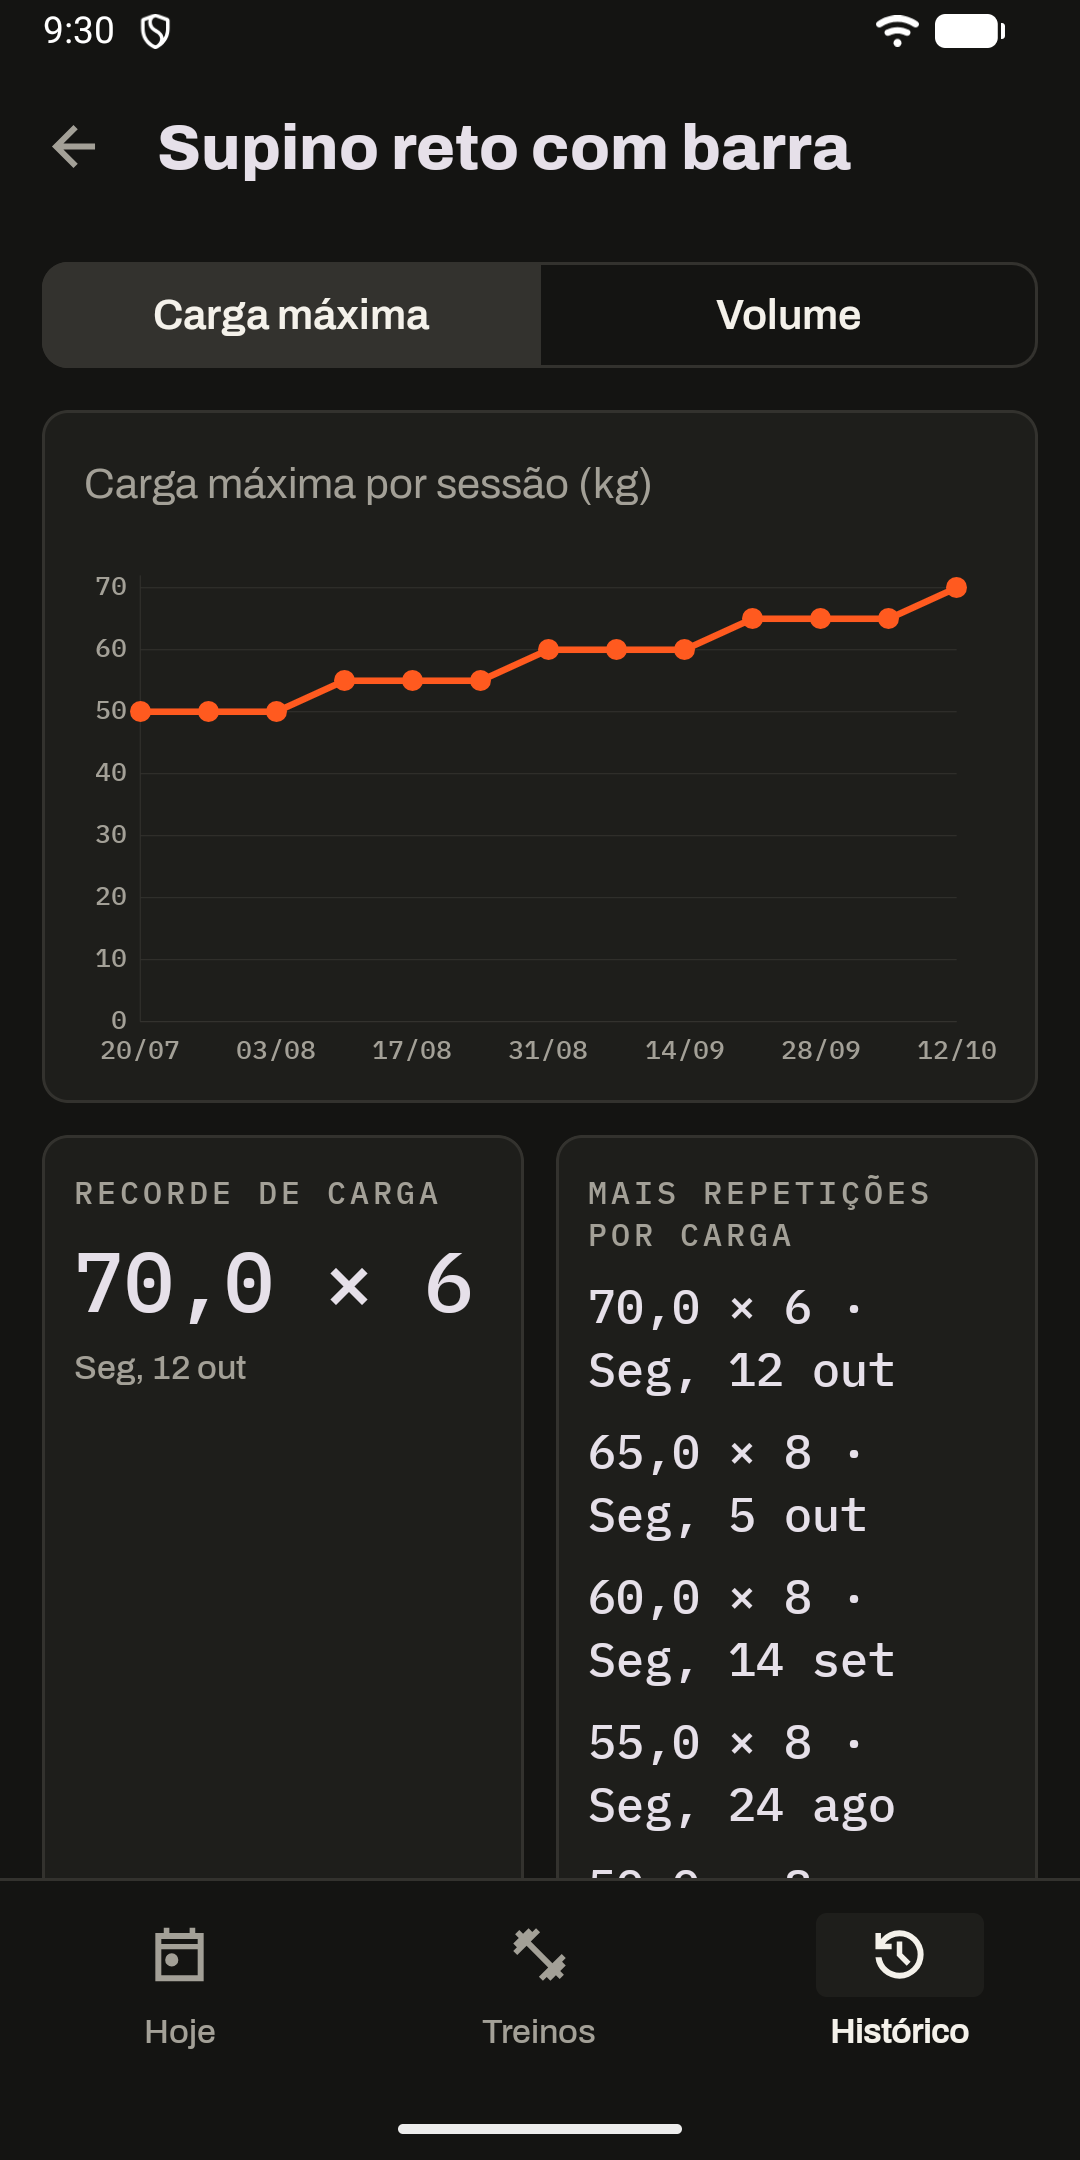
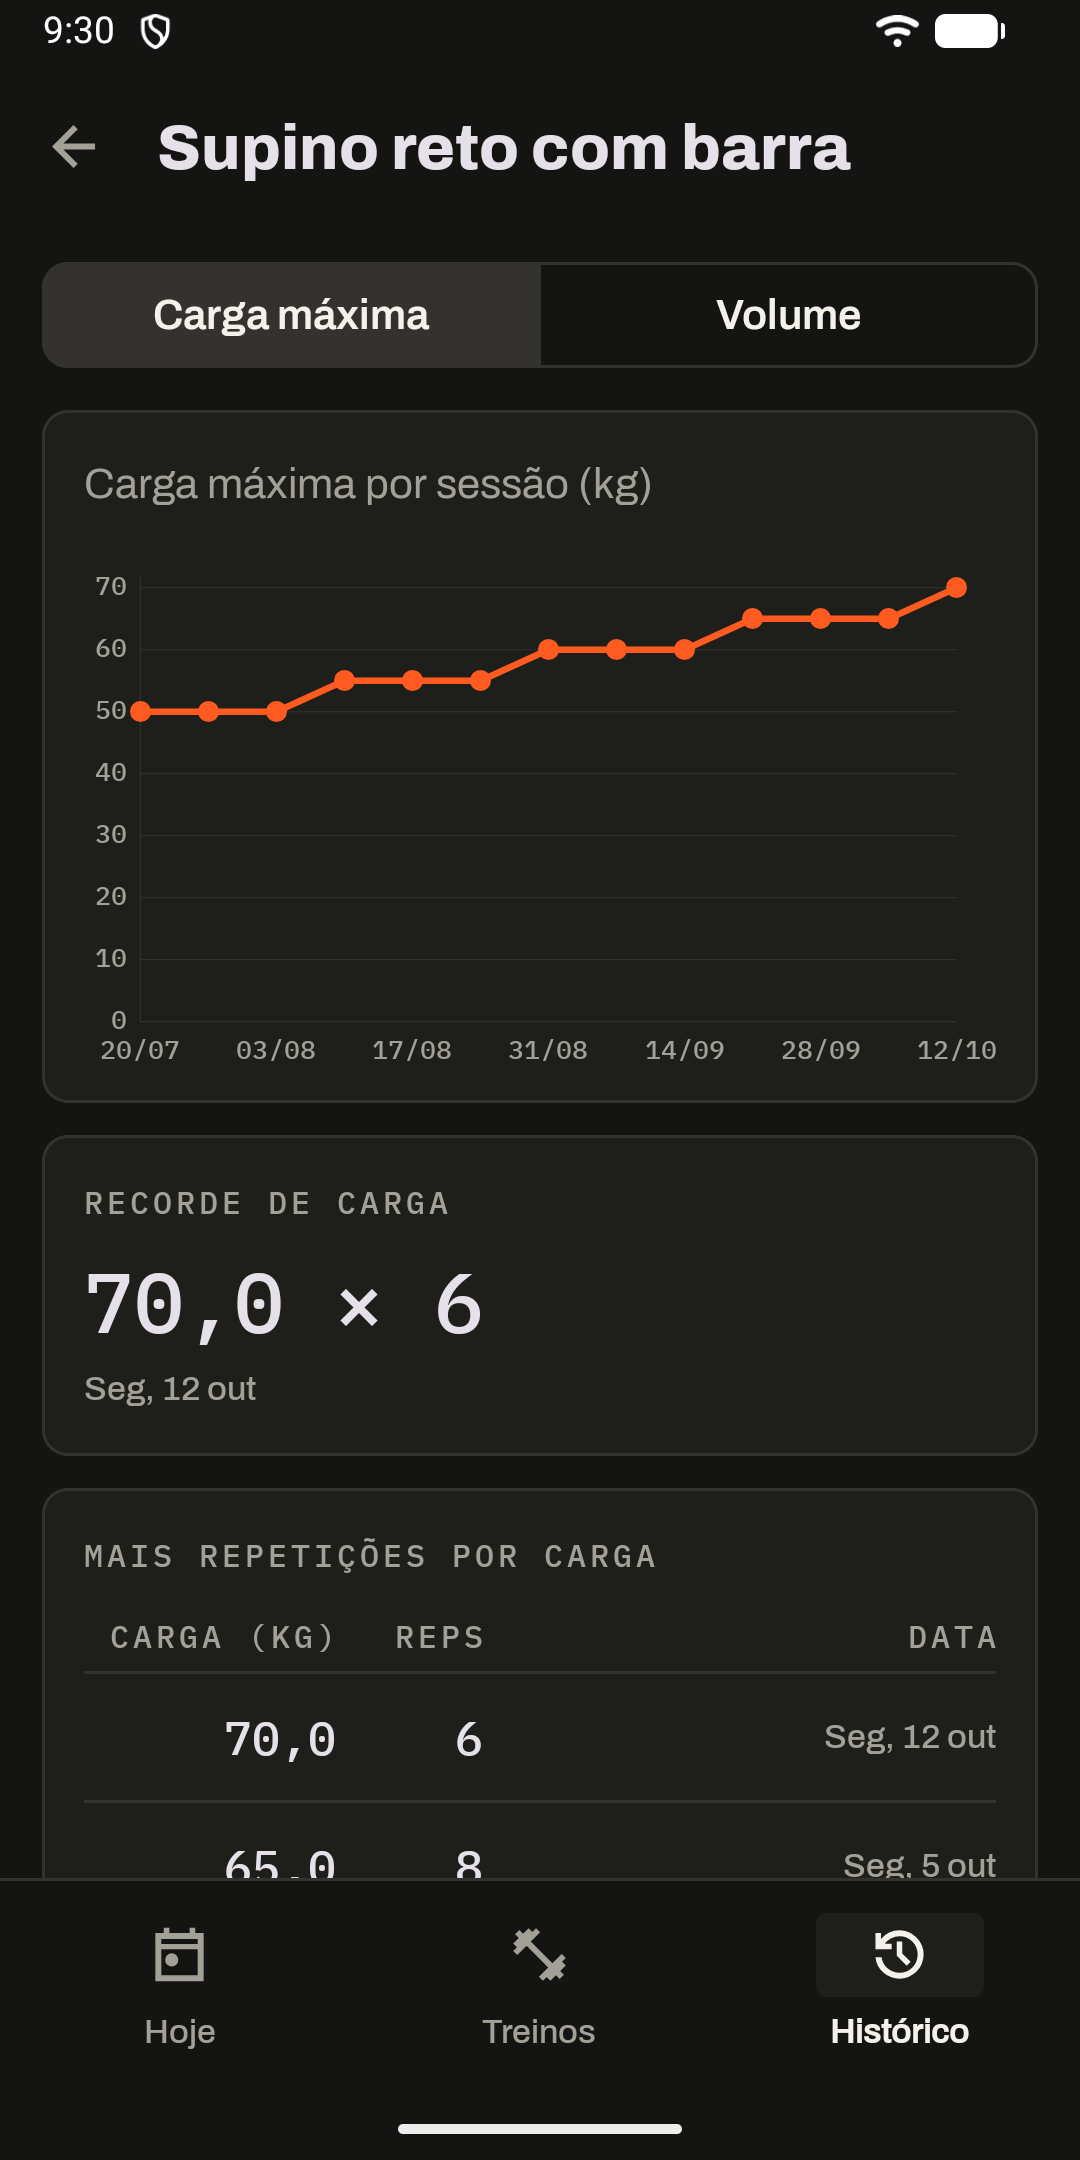
fix: empilha cards de recordes e mostra repetições por carga em tabela
Os cards de recorde de carga e mais repetições por carga ficavam lado a
lado em meia largura: o primeiro sobrava vazio e as marcas do segundo
quebravam em duas linhas. Agora ficam em largura total, e as marcas viram
linhas de caderno com colunas Carga (kg) · Reps · Data.

diff --git a/app/src/main/java/com/pedro/treinoapp/feature/history/presentation/progress/ExerciseProgressFragment.kt b/app/src/main/java/com/pedro/treinoapp/feature/history/presentation/progress/ExerciseProgressFragment.kt
@@ -179,10 +179,13 @@ class ExerciseProgressFragment : Fragment() {
         binding.bestReps.removeAllViews()
         records.bestRepsByWeight.forEach { mark ->
             val row = ItemProgressBestRepsBinding.inflate(layoutInflater, binding.bestReps, true)
-            row.root.text = getString(
+            row.weight.text = formatWeight(mark.weightGrams)
+            row.reps.text = mark.reps.toString()
+            row.date.text = mark.date.formatShort()
+            row.root.contentDescription = getString(
                 R.string.progress_mark_with_date,
                 formatSet(mark.weightGrams, mark.reps, requireContext()),
-                mark.date.formatShort(),
+                row.date.text,
             )
         }
     }
